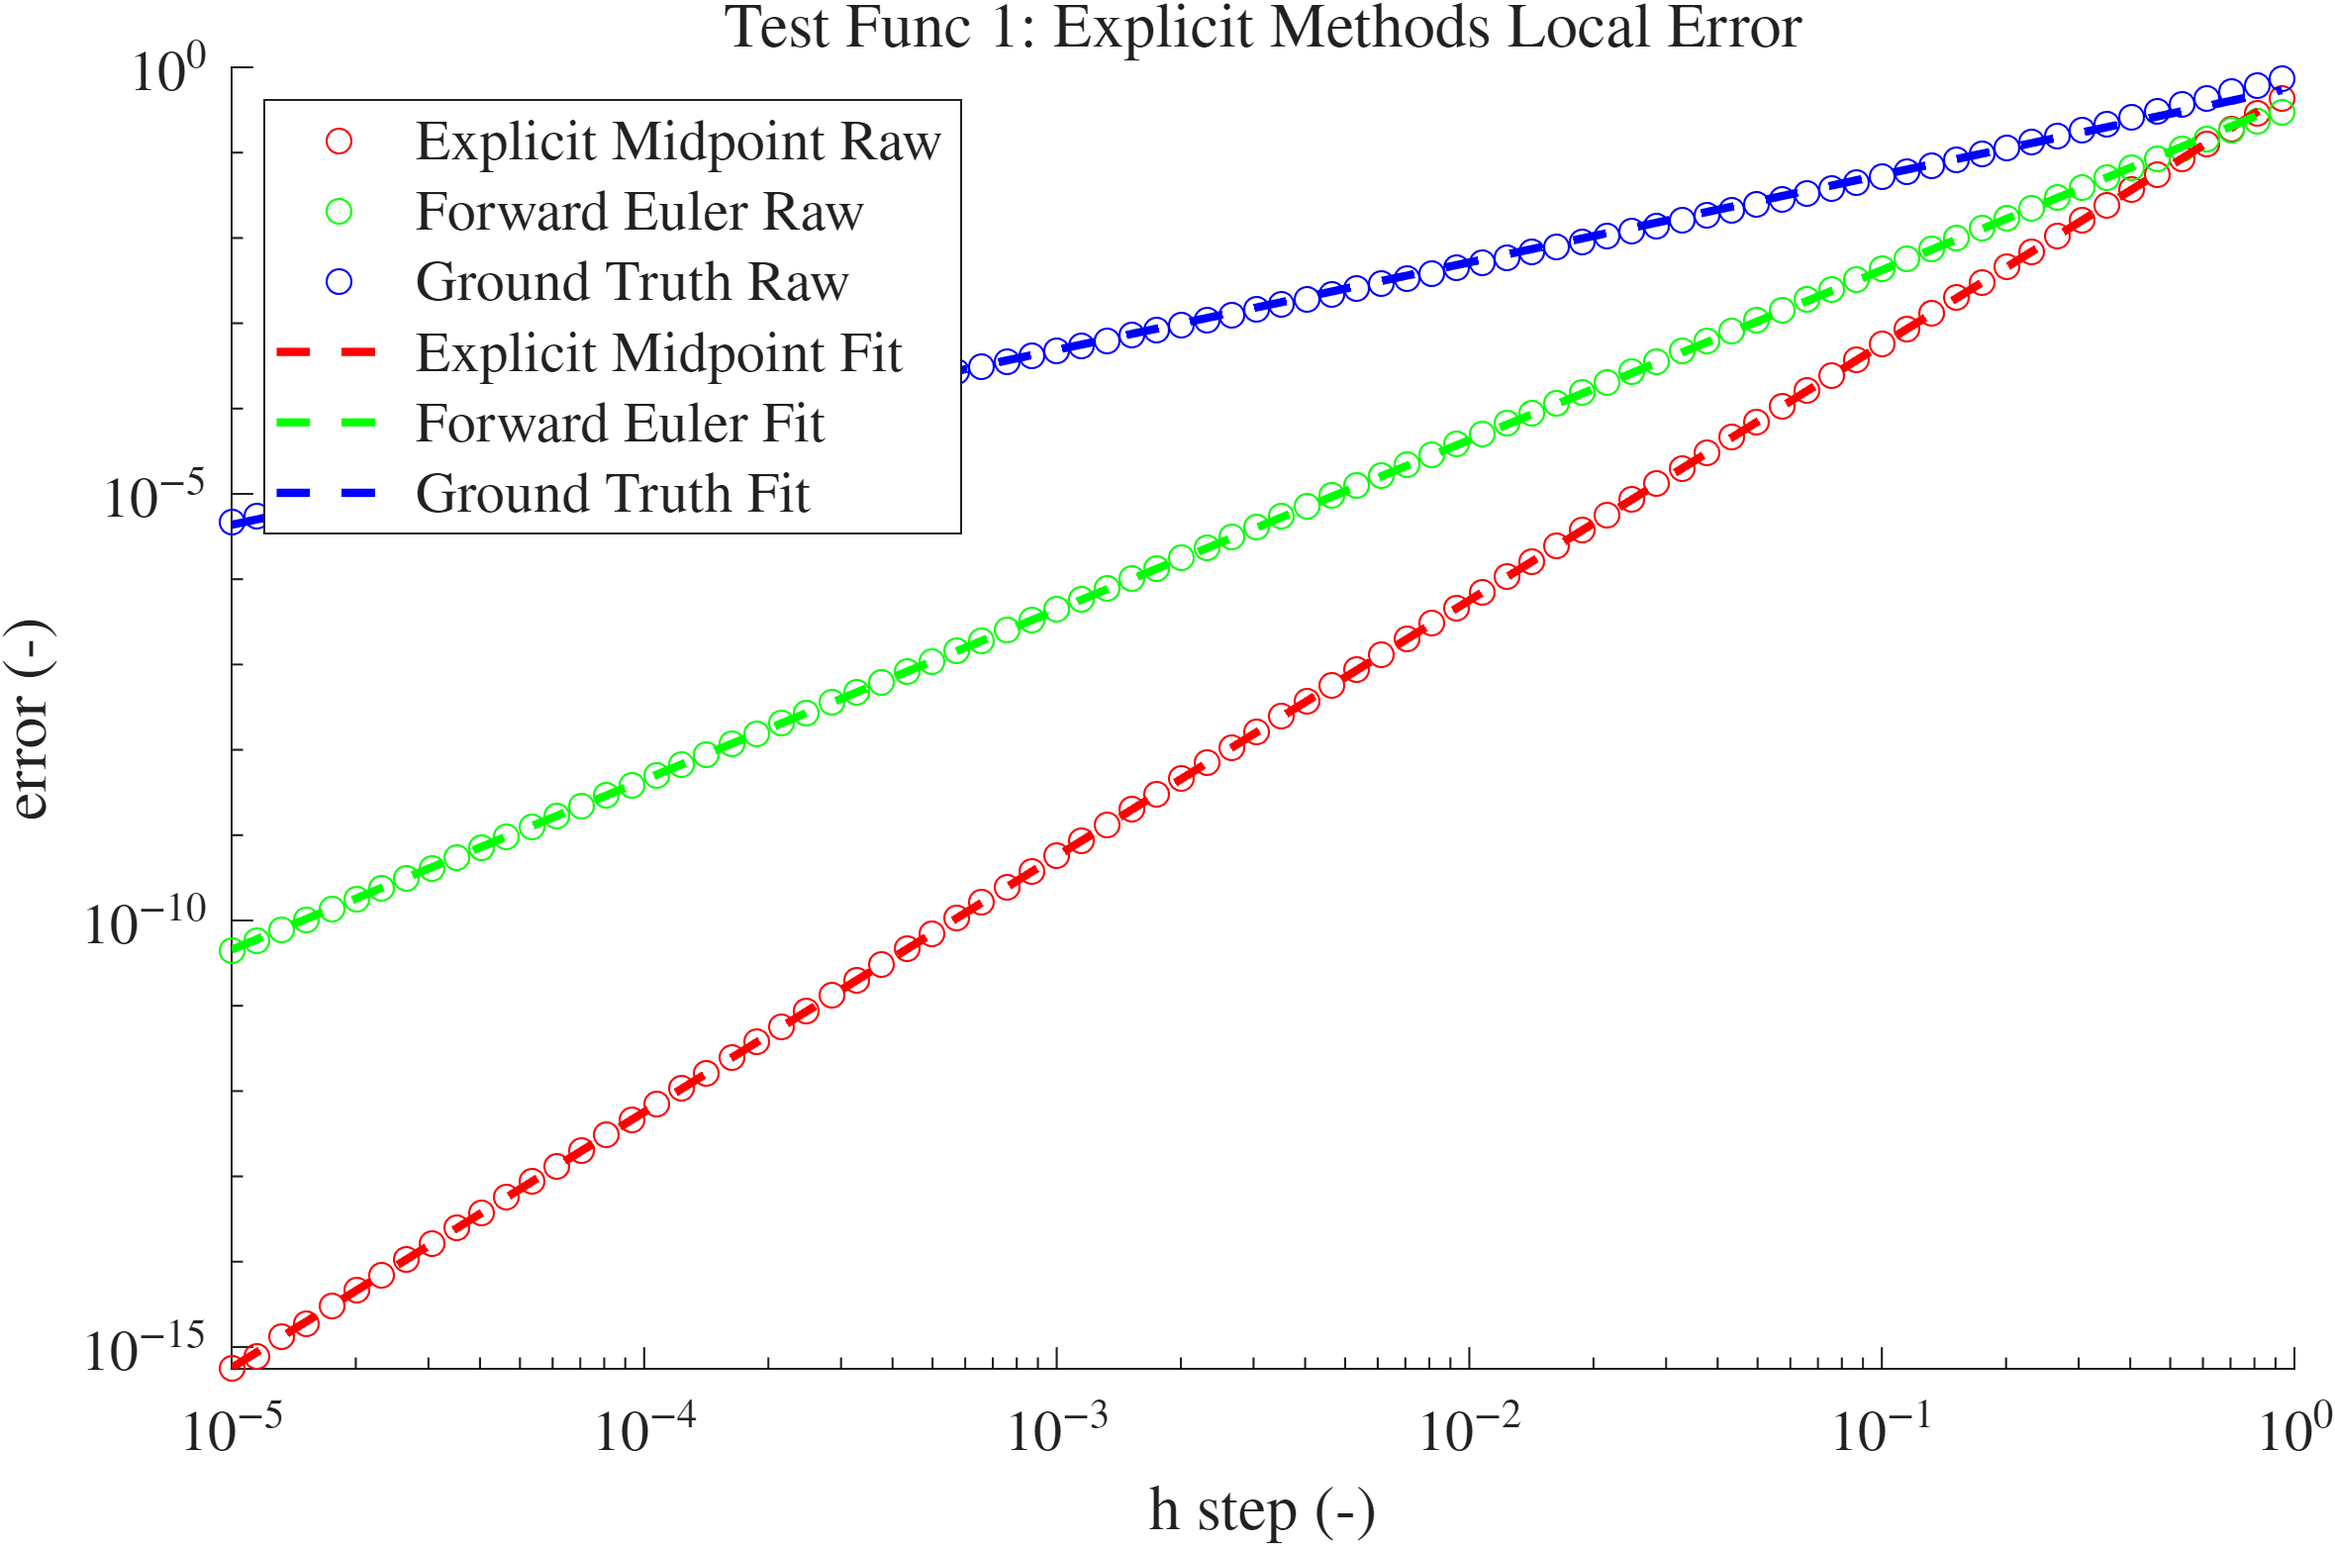
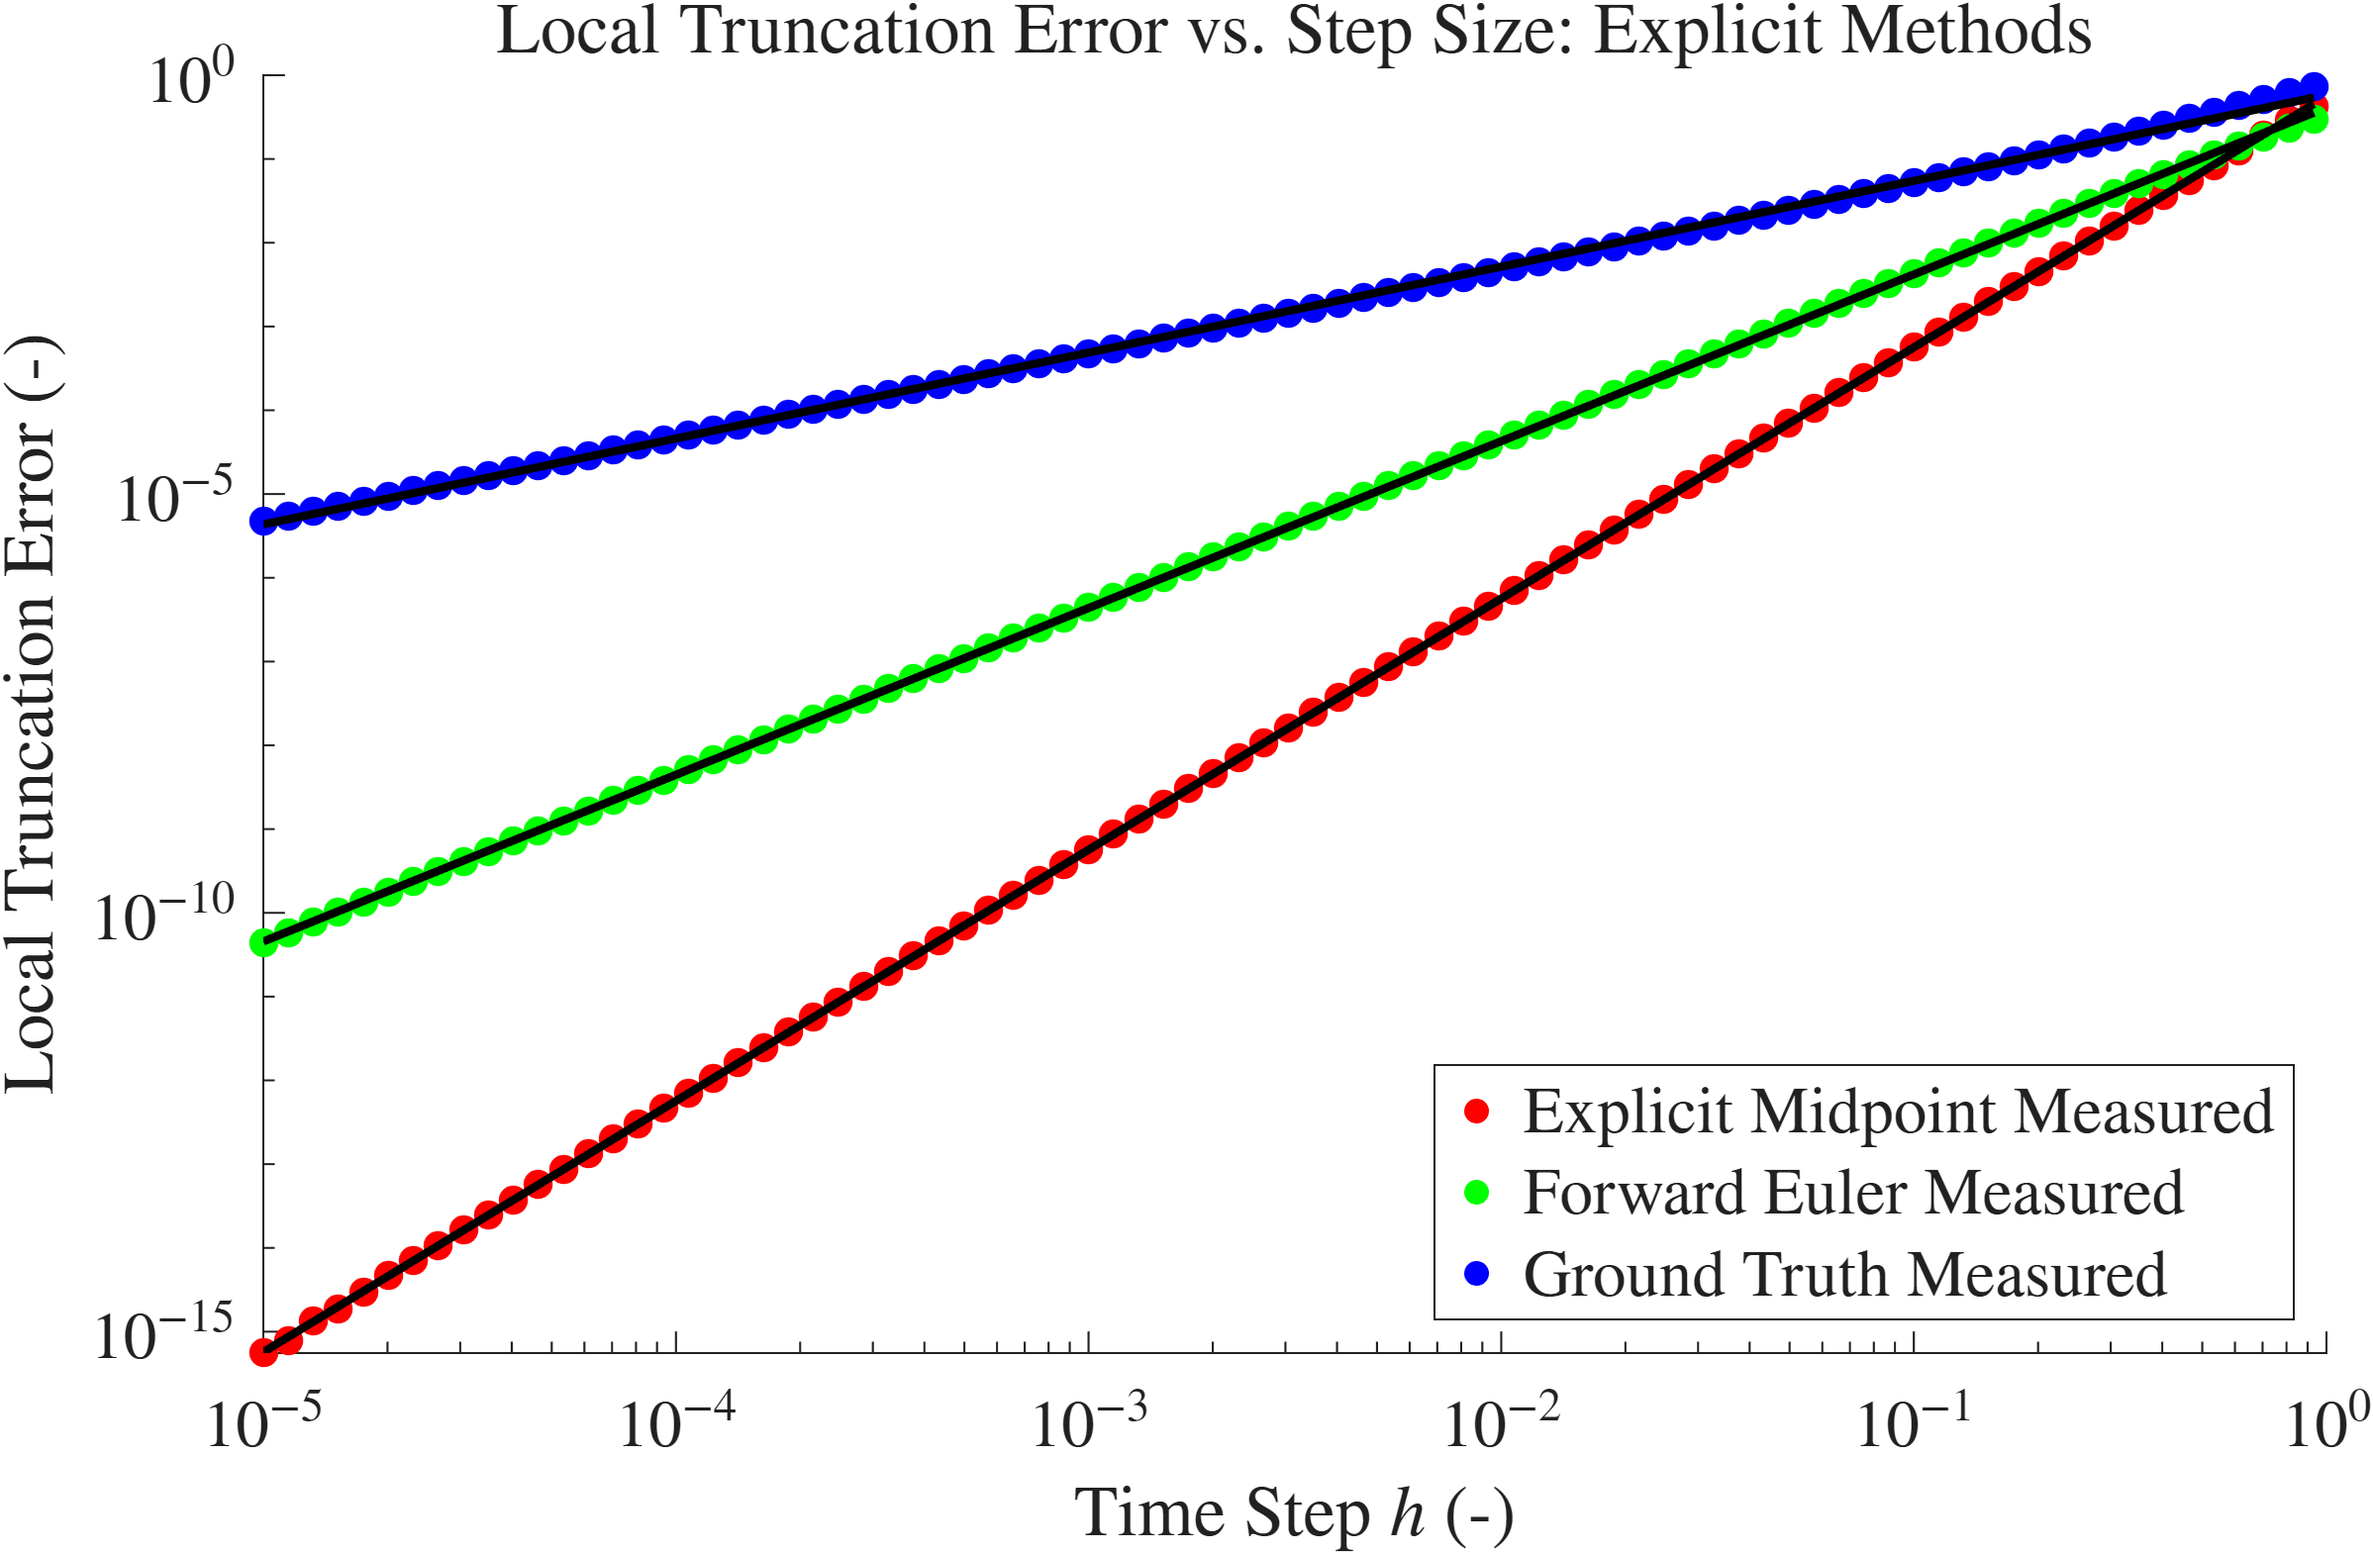
local plots final

diff --git a/local_trunc_error.m b/local_trunc_error.m
@@ -52,23 +52,23 @@ f_func1_gt = exp(polyval(gt_p, log(filtered_h_step)));
 
 
 figure();
-scatter(filtered_h_step, filtered_mp_err, "filled", "r")
+scatter(filtered_h_step, filtered_mp_err, 50, "filled", "r")
 hold on
-scatter(filtered_h_step, filtered_fe_err,"filled", "g")
-scatter(filtered_h_step, filtered_gt_err, "filled", "b");
-plot(filtered_h_step, f_func1_mp, '--', LineWidth=2, Color="k")
-plot(filtered_h_step, f_func1_fe, '--', LineWidth=2, Color="k")
-plot(filtered_h_step, f_func1_gt, '--', LineWidth=2, Color="k")
+scatter(filtered_h_step, filtered_fe_err, 50, "filled", "g")
+scatter(filtered_h_step, filtered_gt_err, 50, "filled", "b");
+plot(filtered_h_step, f_func1_mp, LineWidth=2, Color="k")
+plot(filtered_h_step, f_func1_fe, LineWidth=2, Color="k")
+plot(filtered_h_step, f_func1_gt, LineWidth=2, Color="k")
 hold off
 set(gca,'xscale','log')
 set(gca,'yscale','log')
-legend(["Explicit Midpoint Raw","Forward Euler Raw", "Ground Truth Raw", "Explicit Midpoint Fit", "Forward Euler Fit", "Ground Truth Fit"], Location = "northwest", Interpreter="latex", FontSize=14)
-xlabel("h step (-)", Interpreter="latex", FontSize=14)
-ylabel("error (-)", Interpreter="latex", FontSize=14)
+legend(["Explicit Midpoint Measured","Forward Euler Measured", "Ground Truth Measured"], Location = "southeast", Interpreter="latex", FontSize=16)
+xlabel("Time Step $h$ (-)", Interpreter="latex", FontSize=16)
+ylabel("Local Truncation Error (-)", Interpreter="latex", FontSize=16)
 % axis([0 4*pi -1.5 1.5])
-title("Test Func 1: Explicit Methods Local Error", Interpreter='latex', FontSize=16)
+title("Local Truncation Error vs. Step Size: Explicit Methods", Interpreter='latex', FontSize=18)
 ax = gca;
-ax.FontSize = 14;
+ax.FontSize = 16;
 ax.XAxis.TickLabelInterpreter = 'Latex';
 ax.YAxis.TickLabelInterpreter = 'Latex';
 exportgraphics(gca, 'plots/explicit_methods_local_error_testfunc1.png', 'Resolution',300)
